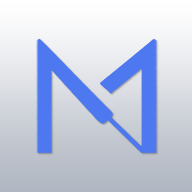
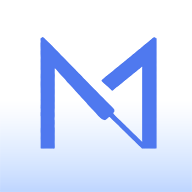
Поменял иконку, внёс последние штрихи

diff --git a/main.py b/main.py
@@ -51,17 +51,3 @@ if __name__ == '__main__':
 
     app = App(is_debug)
     app.run()
-
-# TODO-лист
-
-#* Заметки проекта (фронт)
-# Отрисовка описания (TextInput)
-# Debouce-декоратор
-# Редактирование
-# Удаление
-
-#* Последние штрихи перед релизом
-# Поправить иконку
-# Залить на GitHub
-# Посмотреть SplashScreen
-# Потестить на телефоне
